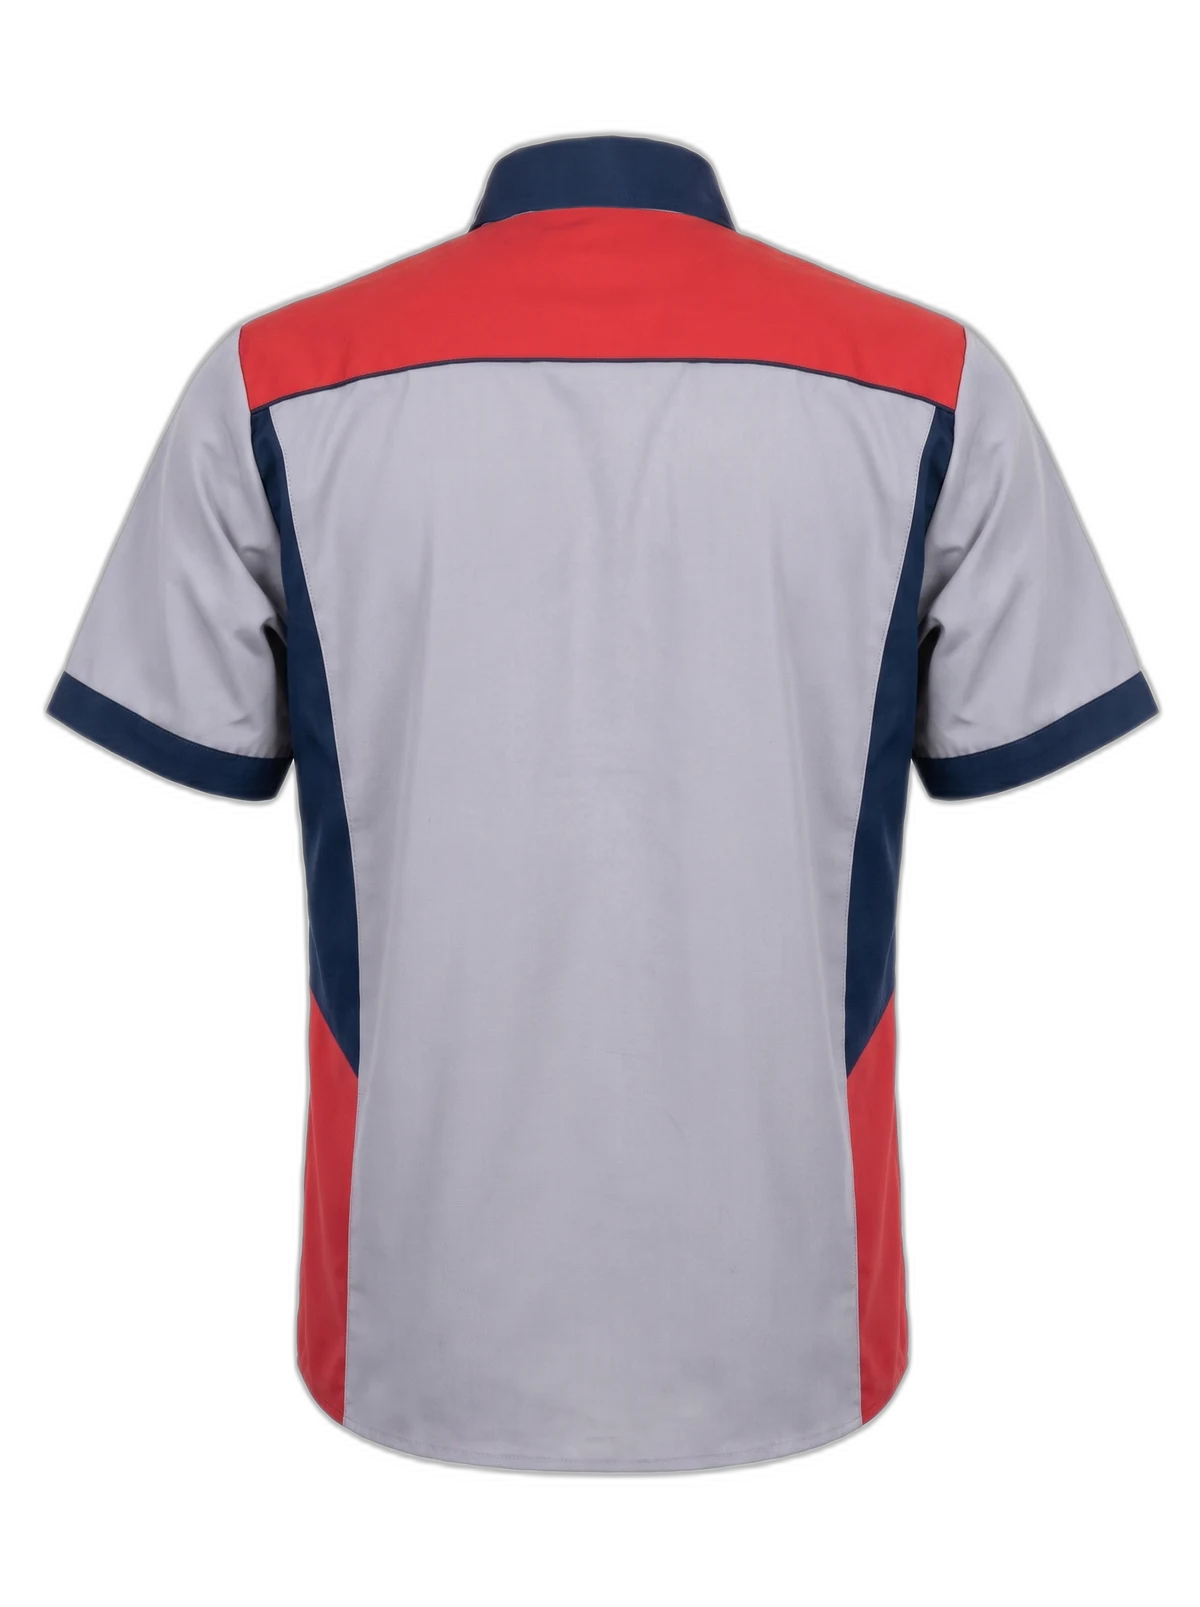
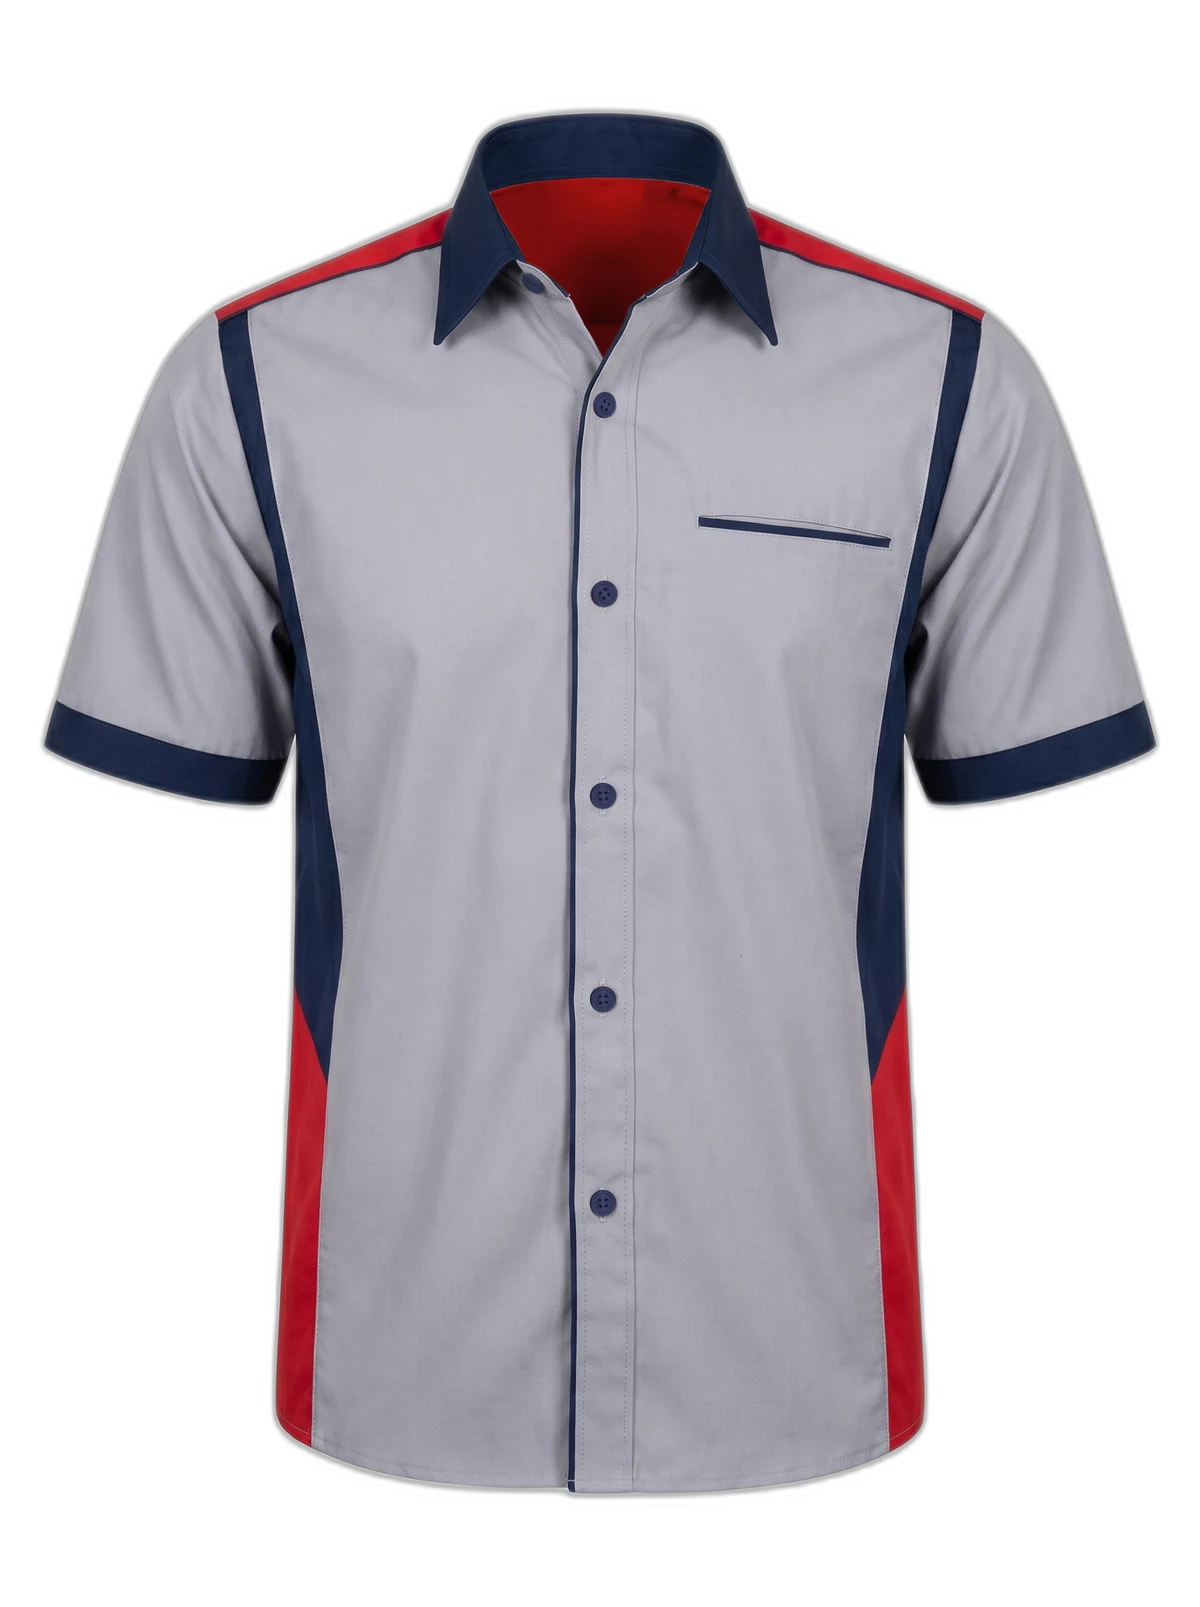
Multi-image Meshy API (4 foto → 1 GLB solid) + fix mapping foto pakai KK-006-Depan.png

Changed region(s): [[0.0308, 0.0622, 0.9867, 0.9334], [0.5242, 0.8401, 0.555, 0.8712]]

diff --git a/src/lib/meshy/meshy-service.ts b/src/lib/meshy/meshy-service.ts
@@ -93,6 +93,69 @@ export async function createImageTo3D(
   }
 }
 
+export interface MeshyMultiImageInput {
+  /** 1–4 public image URLs */
+  imageUrls: string[];
+  prompt?: string;
+  aiModel?: string;
+  enablePbr?: boolean;
+  shouldRemesh?: boolean;
+}
+
+/**
+ * Multi-Image to 3D — accepts 1–4 image URLs and generates ONE solid GLB mesh.
+ * This is the path to a "real" 3D model (volumetrik, not slide/quad-plane).
+ *
+ * Docs: https://docs.meshy.ai/en/api/multi-image-to-3d
+ * Endpoint: POST https://api.meshy.ai/v2/multi-image-to-3d
+ */
+export async function createMultiImageTo3D(
+  input: MeshyMultiImageInput,
+): Promise<{ ok: true; task: MeshyTask } | { ok: false; reason: string }> {
+  const apiKey = process.env.MESHY_API_KEY;
+  if (!apiKey) {
+    return { ok: true, task: mockTask({ imageUrl: input.imageUrls[0] ?? "" }) };
+  }
+
+  if (input.imageUrls.length === 0 || input.imageUrls.length > 4) {
+    return { ok: false, reason: "Jumlah gambar harus 1–4." };
+  }
+
+  try {
+    const res = await fetch(`${MESHY_BASE}/v2/multi-image-to-3d`, {
+      method: "POST",
+      headers: {
+        Authorization: `Bearer ${apiKey}`,
+        "Content-Type": "application/json",
+      },
+      body: JSON.stringify({
+        image_urls: input.imageUrls,
+        prompt: input.prompt,
+        ai_model: input.aiModel ?? "meshy-5",
+        enable_pbr: input.enablePbr ?? true,
+        should_remesh: input.shouldRemesh ?? true,
+        output_formats: ["glb"],
+      }),
+    });
+
+    if (!res.ok) {
+      const text = await res.text();
+      return { ok: false, reason: `Meshy multi-image error ${res.status}: ${text.slice(0, 200)}` };
+    }
+    const data = (await res.json()) as { result?: string };
+    return {
+      ok: true,
+      task: {
+        id: data.result ?? crypto.randomUUID(),
+        status: "IN_QUEUE",
+        startTime: Date.now(),
+      },
+    };
+  } catch (e) {
+    return { ok: false, reason: e instanceof Error ? e.message : "Network error" };
+  }
+}
+
 /** Poll a task for status + final model URLs. */
 export async function pollImageTo3D(
   taskId: string,

diff --git a/src/components/configurator/GenerateGLBButton.tsx b/src/components/configurator/GenerateGLBButton.tsx
@@ -15,8 +15,11 @@ import { Badge } from "@/components/ui/Badge";
 import { Button } from "@/components/ui/Button";
 
 interface GenerateGLBButtonProps {
-  /** product photo URL that Meshy can fetch publicly */
+  /** primary product photo URL (single-image mode) */
   imageUrl: string;
+  /** optional additional photo URLs for multi-image mode (1–4 total).
+   *  When provided, the button triggers multi-image-to-3d → 1 solid GLB. */
+  multiImageUrls?: string[];
   /** model3d id, used to label the generated model */
   model3dId: string;
   onGenerated: (glbUrl: string) => void;
@@ -26,6 +29,7 @@ type Phase = "idle" | "creating" | "polling" | "done" | "error";
 
 export function GenerateGLBButton({
   imageUrl,
+  multiImageUrls,
   model3dId,
   onGenerated,
 }: GenerateGLBButtonProps) {
@@ -39,14 +43,19 @@ export function GenerateGLBButton({
     setReason(null);
     setProgress(0);
 
-    // 1. Create task
+    // 1. Create task — prefer multi-image when we have 4 angles (→ 1 solid GLB)
+    const payload: { imageUrl?: string; imageUrls?: string[]; prompt: string } = {
+      prompt: `Workwear shirt ${model3dId}, photorealistic, neutral pose, all 4 sides`,
+    };
+    if (multiImageUrls && multiImageUrls.length >= 2) {
+      payload.imageUrls = multiImageUrls.slice(0, 4);
+    } else {
+      payload.imageUrl = imageUrl;
+    }
     const createRes = await fetch("/api/3d/meshy/create", {
       method: "POST",
       headers: { "Content-Type": "application/json" },
-      body: JSON.stringify({
-        imageUrl,
-        prompt: `Workwear shirt ${model3dId}, photorealistic, neutral pose`,
-      }),
+      body: JSON.stringify(payload),
     });
     const createJson = (await createRes.json()) as {
       ok: boolean;

diff --git a/src/app/api/3d/meshy/create/route.ts b/src/app/api/3d/meshy/create/route.ts
@@ -1,15 +1,23 @@
 // src/app/api/3d/meshy/create/route.ts
 // Create a Meshy.ai image-to-3d task. Server-only — MESHY_API_KEY never
 // crosses to the client. In mock mode (no key), returns a synthetic task.
+//
+// Two modes:
+//   - single: { imageUrl }              → image-to-3d
+//   - multi:  { imageUrls: string[] }   → multi-image-to-3d (1–4 images → 1 GLB)
 
 import { NextResponse } from "next/server";
 
-import { createImageTo3D } from "@/lib/meshy/meshy-service";
+import {
+  createImageTo3D,
+  createMultiImageTo3D,
+} from "@/lib/meshy/meshy-service";
 
 export const runtime = "nodejs";
 
 interface CreateBody {
   imageUrl?: string;
+  imageUrls?: string[];
   prompt?: string;
 }
 
@@ -20,9 +28,23 @@ export async function POST(req: Request) {
   } catch {
     return NextResponse.json({ ok: false, reason: "Invalid JSON" }, { status: 400 });
   }
+
+  // Multi-image path (1–4 images → 1 GLB)
+  if (Array.isArray(body.imageUrls) && body.imageUrls.length > 0) {
+    const result = await createMultiImageTo3D({
+      imageUrls: body.imageUrls,
+      prompt: body.prompt,
+    });
+    if (!result.ok) {
+      return NextResponse.json({ ok: false, reason: result.reason }, { status: 502 });
+    }
+    return NextResponse.json(result);
+  }
+
+  // Single-image path
   if (!body.imageUrl || typeof body.imageUrl !== "string") {
     return NextResponse.json(
-      { ok: false, reason: "imageUrl wajib diisi (URL publik)" },
+      { ok: false, reason: "imageUrl atau imageUrls wajib diisi" },
       { status: 400 },
     );
   }

diff --git a/src/components/configurator/Uniform3DConfigurator.tsx b/src/components/configurator/Uniform3DConfigurator.tsx
@@ -353,10 +353,26 @@ export function Uniform3DConfigurator({
         {!generatedGlbUrl && (
           <GenerateGLBButton
             imageUrl={
+              effectiveModel.depth3DQuad?.front.colorImage ??
               effectiveModel.depth3DDual?.front.colorImage ??
               effectiveModel.depth3D?.colorImage ??
               effectiveModel.photo360?.frames[0]?.src ??
               ""
+            }
+            multiImageUrls={
+              effectiveModel.depth3DQuad
+                ? [
+                    effectiveModel.depth3DQuad.front.colorImage,
+                    effectiveModel.depth3DQuad.back.colorImage,
+                    effectiveModel.depth3DQuad.left.colorImage,
+                    effectiveModel.depth3DQuad.right.colorImage,
+                  ]
+                : effectiveModel.depth3DDual
+                  ? [
+                      effectiveModel.depth3DDual.front.colorImage,
+                      effectiveModel.depth3DDual.back.colorImage,
+                    ]
+                  : undefined
             }
             model3dId={effectiveModel.model3dId}
             onGenerated={(url) => setGeneratedGlbUrl(url)}
